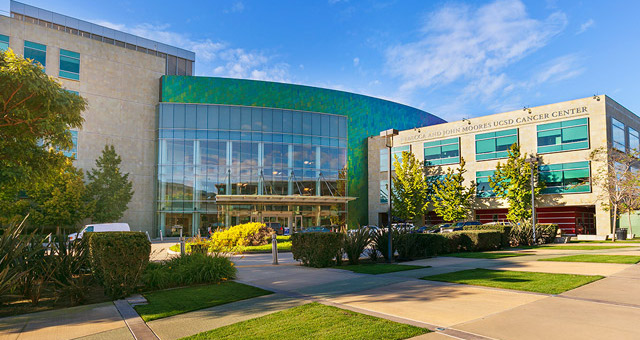
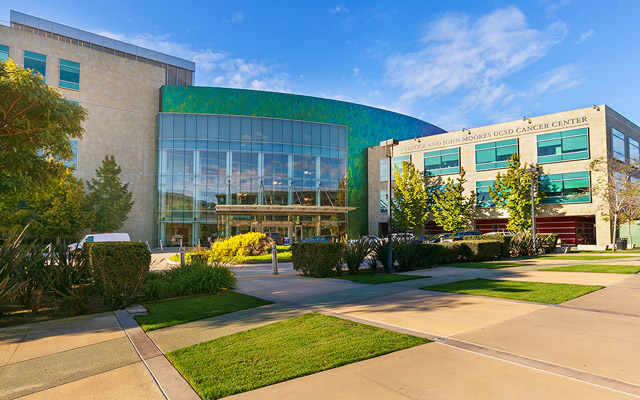
contact us page upates

diff --git a/content/contact_us.html b/content/contact_us.html
@@ -43,15 +43,15 @@ title: "Contact Us"
     <h2 class="homepage-title padding-top padding-bottom">Locations</h2>
     <div class="contact-us-locations-row">
             <div class="contact-us-location">
-                <a target="_blank" href="https://bit.ly/35hFXnW"><img class="location-image" src="../img/cnt_building.jpg"></a>
+                <a target="_blank" href="https://bit.ly/35hFXnW"><img class="location-image" src="../img/cnt_building_daytime.jpg"></a>
                 <div class="location-text">
                     <a target="_blank" href="https://cntsandiego.com/campus/"><p class="location-text-line-title">Center for Novel Therapeutics</p></a>
                     <p class="location-text-line">9310 Athena Circle</p>
-                    <p class="location-text-line">Suites 3400</p>
+                    <p class="location-text-line">Suite 3400</p>
                 </div>
             </div>
             <div class="contact-us-location">
-                <a target="_blank" href="https://bit.ly/2SeF5eD"><img class="location-image" src="../img/moores_cancer_center.jpg"></a>
+                <a target="_blank" href="https://bit.ly/2SeF5eD"><img class="location-image" src="../img/moores_front_bright.jpg"></a>
                 <div class="location-text">
                     <a target="_blank" href="https://health.ucsd.edu/locations/pages/moores.aspx"><p class="location-text-line-title">UCSD Moores Cancer Center</p></a>
                     <p class="location-text-line">3855 Health Sciences Drive</p>

diff --git a/docs/contact_us/index.html b/docs/contact_us/index.html
@@ -147,15 +147,15 @@
     <h2 class="homepage-title padding-top padding-bottom">Locations</h2>
     <div class="contact-us-locations-row">
             <div class="contact-us-location">
-                <a target="_blank" href="https://bit.ly/35hFXnW"><img class="location-image" src="../img/cnt_building.jpg"></a>
+                <a target="_blank" href="https://bit.ly/35hFXnW"><img class="location-image" src="../img/cnt_building_daytime.jpg"></a>
                 <div class="location-text">
                     <a target="_blank" href="https://cntsandiego.com/campus/"><p class="location-text-line-title">Center for Novel Therapeutics</p></a>
                     <p class="location-text-line">9310 Athena Circle</p>
-                    <p class="location-text-line">Suites 3400</p>
+                    <p class="location-text-line">Suite 3400</p>
                 </div>
             </div>
             <div class="contact-us-location">
-                <a target="_blank" href="https://bit.ly/2SeF5eD"><img class="location-image" src="../img/moores_cancer_center.jpg"></a>
+                <a target="_blank" href="https://bit.ly/2SeF5eD"><img class="location-image" src="../img/moores_front_bright.jpg"></a>
                 <div class="location-text">
                     <a target="_blank" href="https://health.ucsd.edu/locations/pages/moores.aspx"><p class="location-text-line-title">UCSD Moores Cancer Center</p></a>
                     <p class="location-text-line">3855 Health Sciences Drive</p>
